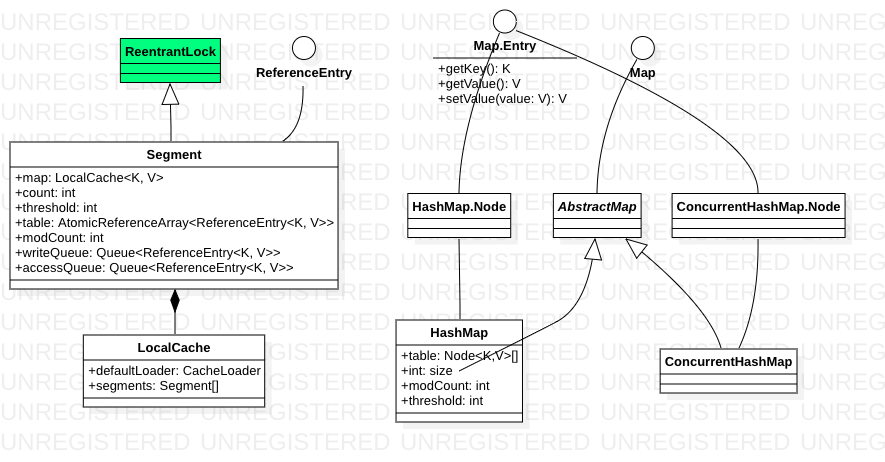
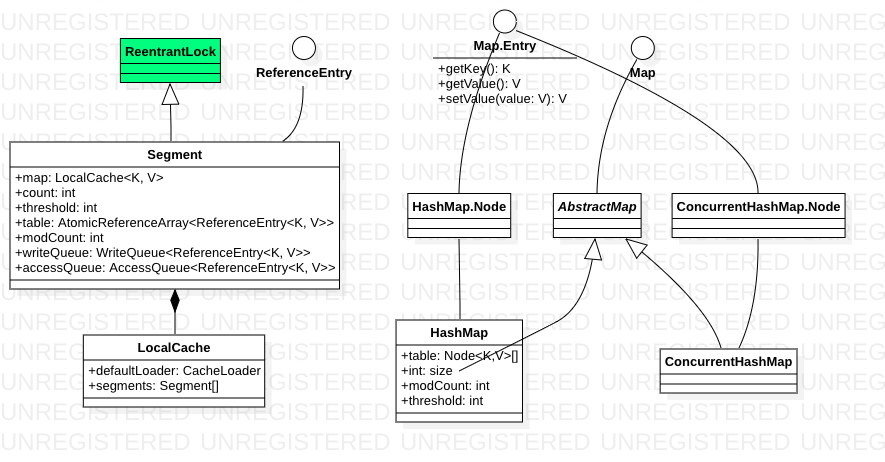
[fix]add odc

Changed region(s): [[0.0915, 0.3333, 0.3966, 0.6061], [0.1525, 0.303, 0.2441, 0.3636]]

diff --git a/_posts/Technology/Java/2019-06-20-guava_cache.md b/_posts/Technology/Java/2019-06-20-guava_cache.md
@@ -18,11 +18,14 @@ guava LocalCache与ConcurrentHashMap有以下不同
 2. 在Cache中，使用ReferenceEntry来封装键值对，并且对于值来说，还额外实现了ValueReference引用对象来封装对应Value对象。
 3. 在Cache中，在segment 粒度上支持了LRU机制， 体现在Segment上就是 writeQueue 和 accessQueue。队列中的元素按照访问或者写时间排序，新的元素会被添加到队列尾部。如果，在队列中已经存在了该元素，则会先delete掉，然后再尾部add该节点
 
-## Cache
+## Cache的核心是LocalCache
 
 ![](/public/upload/java/guava_cache.png)
 
-AbstractCache：This class provides a **skeletal implementation** of the  Cache interface to minimize the effort required to implement this interface.To implement a cache, the programmer needs only to extend this class and provide an implementation for the get(Object) and getIfPresent methods.  getAll are implemented in terms of get; getAllPresent is implemented in terms of getIfPresent; putAll is implemented in terms of put, invalidateAll(Iterable) is implemented in terms of invalidate. 这是一个典型抽象类的使用。
+1. 我们一般用的LoadingCache 实际实现类是 LocalLoadingCache，整个guava cache的核心是LocalCache。
+2. AbstractCache：This class provides a **skeletal implementation** of the  Cache interface to minimize the effort required to implement this interface.To implement a cache, the programmer needs only to extend this class and provide an implementation for the get(Object) and getIfPresent methods.  getAll are implemented in terms of get; getAllPresent is implemented in terms of getIfPresent; putAll is implemented in terms of put, invalidateAll(Iterable) is implemented in terms of invalidate. 这是一个典型抽象类的使用：skeletal implementation，封装通用逻辑，承接大部分interface 方法， 剩下几个个性化的方法留给子类实现。 
+
+## LocalCache 的核心是Segment
 
 ![](/public/upload/java/guava_cache_segment_get.png)
 
@@ -30,9 +33,11 @@ AbstractCache：This class provides a **skeletal implementation** of the  Cache 
 
 可以直观看到cache是以segment粒度来控制并发get和put等操作的
 
+## Segment 的基本元素ReferenceEntry 和 ValueReference
+
 ![](/public/upload/java/guava_cache_segment.png)
 
-## segment
+Map类结构简单说就是数组 + 链表，最基本的数据单元是entry
 
 ![](/public/upload/java/guava_cache_reference_entry.png)
 
@@ -43,8 +48,156 @@ AbstractCache：This class provides a **skeletal implementation** of the  Cache 
 
 在Cache分别实现了基于Strong,Soft，Weak三种形式的ValueReference实现。
 
-这里ValueReference之所以要有对ReferenceEntry的引用是因为在WeakReference、SoftReference被回收时，需要使用其key将对应的项从Segment段中移除； copyFor()函数的存在是因为在expand(rehash)重新创建节点时，对WeakReference、SoftReference需要重新创建实例（C++中的深度复制思想，就是为了保持对象状态不会相互影响），而对强引用来说，直接使用原来的值即可，这里很好的展示了对彼变化的封装思想； notifiyNewValue只用于LoadingValueReference，它的存在是为了对LoadingValueReference来说能更加及时的得到CacheLoader加载的值。
+1. 这里ValueReference之所以要有对ReferenceEntry的引用是因为在WeakReference、SoftReference被回收时，需要使用其key将对应的项从Segment段中移除； 
+2. copyFor()函数的存在是因为在expand(rehash)重新创建节点时，对WeakReference、SoftReference需要重新创建实例（C++中的深度复制思想，就是为了保持对象状态不会相互影响），而对强引用来说，直接使用原来的值即可，这里很好的展示了对彼变化的封装思想； 
+3. notifiyNewValue只用于LoadingValueReference，它的存在是为了对LoadingValueReference来说能更加及时的得到CacheLoader加载的值。
 
 ## segment.get
 
 ![](/public/upload/java/guava_cache_segment_get_flow.png)
+
+主要逻辑就两个：lockedGetOrLoad 和 waitForLoadingValue
+
+### lockedGetOrLoad
+
+下列代码只保留了load部分
+
+    V lockedGetOrLoad(K key, int hash, CacheLoader<? super K, V> loader) throws ExecutionException {
+        ReferenceEntry<K, V> e;
+        ValueReference<K, V> valueReference = null;
+        LoadingValueReference<K, V> loadingValueReference = null;
+        boolean createNewEntry = true;
+
+        lock();
+        int newCount = this.count - 1;
+        AtomicReferenceArray<ReferenceEntry<K, V>> table = this.table;
+        // 计算key在数组中的落点
+        int index = hash & (table.length() - 1);
+        ReferenceEntry<K, V> first = table.get(index);
+        // 沿着某个index 链表依次遍历
+        for (e = first; e != null; e = e.getNext()) {
+            K entryKey = e.getKey();
+            if (e.getHash() == hash
+                && entryKey != null
+                && map.keyEquivalence.equivalent(key, entryKey)) {
+                valueReference = e.getValueReference();
+                V value = valueReference.get();
+                if (value == null || map.isExpired(e, now){
+                    enqueueNotification(...);
+                } else {
+                    return value;
+                }
+                this.count = newCount; // write-volatile
+                break;
+            }
+        }
+        loadingValueReference = new LoadingValueReference<>();
+        if (e == null) {
+            e = newEntry(key, hash, first);
+            e.setValueReference(loadingValueReference);table.set(index, e);
+        } else {
+            e.setValueReference(loadingValueReference);
+        }
+        unlock();   
+        synchronized (e) {
+            return loadSync(key, hash,loadingValueReference, loader);
+        }
+    }
+
+segment 简单说也是数组加链表，只是元素类型是ReferenceEntry，根据key 计算index，然后沿着链表匹配value，若相同，判断value元素是否有效，无效（null or 过期）则创建loadingValueReference 并更新到 ReferenceEntry。loadingValueReference.loadFuture 开始执行load逻辑。
+
+只有ReferenceEntry 更新 其value引用 loadingValueReference 的部分是需要加锁的，之后线程竞争便转移到了 loadingValueReference 上
+
+    V loadSync(K key,int hash,
+        LoadingValueReference<K, V>,loadingValueReference,CacheLoader<? super K, V> loader)throws ExecutionException {
+        ListenableFuture<V> loadingFuture = loadingValueReference.loadFuture(key, loader);
+        return getAndRecordStats(key, hash,loadingValueReference, loadingFuture);
+    }
+
+### waitForLoadingValue
+
+    V waitForLoadingValue(ReferenceEntry<K, V> e, K key, ValueReference<K, V> valueReference)
+        throws ExecutionException {
+        checkState(!Thread.holdsLock(e), "Recursive load of: %s", key);
+        V value = valueReference.waitForValue();
+        if (value == null) {
+            throw new InvalidCacheLoadException("CacheLoader returned null for key " + key + ".");
+        }
+        ...
+        return value;
+    }
+
+    static class LoadingValueReference<K, V> implements ValueReference<K, V> {
+        volatile ValueReference<K, V> oldValue;
+        final SettableFuture<V> futureValue =SettableFuture.create();
+        final Stopwatch stopwatch =Stopwatch.createUnstarted();
+
+        public boolean set(@Nullable V newValue) {
+            return futureValue.set(newValue);
+        }
+        public V get() {
+            return oldValue.get();
+        }
+        public V waitForValue() throws ExecutionException {
+            // 对future.get的封装
+            return getUninterruptibly(futureValue);
+        }
+        public boolean setException(Throwable t) {
+            return futureValue.setException(t);
+        }
+        public void notifyNewValue(@Nullable V newValue) {
+            if (newValue != null) {
+                // future.get ==> waitForValue即可立即返回
+                set(newValue);
+            } else {
+                oldValue = unset();
+            }
+        }
+    }
+
+所谓请求合并：当多个线程请求同一个key时，第一个线程执行loader逻辑，其余线程等待。
+
+从上述代码可以看到
+
+1. “其它线程等待”的效果，不是对key 加锁， 其它线程得不到锁而等待
+2. LoadingValueReference 持有了 future对象，线程发现value 处于loading状态时 便直接 `LoadingValueReference.waitForValue` ==> `future.get` 准备等结果了
+
+## 如果不想线程排队
+
+[Guava Cache内存缓存使用实践-定时异步刷新及简单抽象封装](http://www.voidcn.com/article/p-xifknifw-brg.html)
+
+### 只有一个用户线程排队
+
+refreshAfterWrite 注意不是 expireAfterWrite
+
+    LoadingCache<String, Object> caches = CacheBuilder.newBuilder() 
+        .maximumSize(100) 
+        .refreshAfterWrite(10, TimeUnit.MINUTES) 
+        .build(new CacheLoader<String, Object>() { 
+            @Override 
+            public Object load(String key) throws Exception { 
+                return generateValueByKey(key); 
+            } 
+        }); 
+
+### 另起线程拉新值
+
+
+    ListeningExecutorService backgroundRefreshPools = MoreExecutors.listeningDecorator(Executors.newFixedThreadPool(20)); LoadingCache<String, Object> caches = CacheBuilder.newBuilder() 
+        .maximumSize(100) 
+        .refreshAfterWrite(10, TimeUnit.MINUTES) 
+        .build(new CacheLoader<String, Object>() { 
+            @Override 
+            public Object load(String key) throws Exception { 
+                return generateValueByKey(key); 
+            } 
+            @Override 
+            public ListenableFuture<Object> reload(String key, Object oldValue) throws Exception { 
+                return backgroundRefreshPools.submit(new Callable<Object>() { 
+                    @Override 
+                    public Object call() throws Exception { 
+                        return generateValueByKey(key); 
+                    } 
+                }); 
+            } 
+        }); 

diff --git a/_posts/Technology/Java/2018-12-11-thread_queued.md b/_posts/Technology/Java/2018-12-11-thread_queued.md
@@ -48,7 +48,7 @@ keywords: groovy
 
 ## guava cache的 请求合并
 
-
+[guava cache 源码分析](http://qiankunli.github.io/2019/06/20/guava_cache.html)
 
 ## 其它
 
